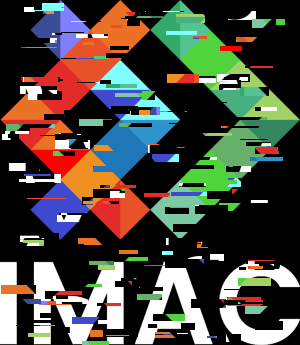
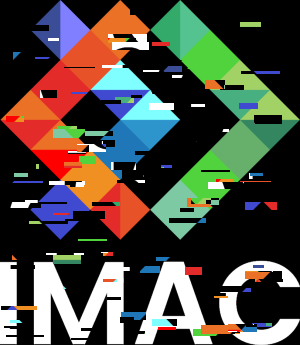
OP Rapport (fonctions Lisa) + OPTI tramage + OPTI normalisation
🐛 tramage
:zap: normalisation
📝 rapport

diff --git a/src/main.cpp b/src/main.cpp
@@ -359,7 +359,7 @@ void tramage(sil::Image image)
     {
         for (int y{0}; y < image.height(); y++)
         {
-            if (image.pixel(x, y).r + bayer_matrix_4x4[x % 4][y % 4] > 0.5f)
+            if ((image.pixel(x, y).r + image.pixel(x, y).g + image.pixel(x, y).b) / 3 + bayer_matrix_4x4[x % 4][y % 4] > 0.5f)
             {
                 image.pixel(x, y).r = 1;
                 image.pixel(x, y).g = 1;
@@ -376,9 +376,6 @@ void tramage(sil::Image image)
     
 void normalisation(sil::Image image)
 {
-    sil::Image grayscaledCopy = image;
-    blackAndWhite(grayscaledCopy);
-
     float darkestPixelValue{1.f};
     float brightestPixelValue{0.f};
     
@@ -386,14 +383,14 @@ void normalisation(sil::Image image)
     {
         for (int y{0}; y < image.height(); y++)
         {
-            if (grayscaledCopy.pixel(x, y).r < darkestPixelValue)
+            if ((image.pixel(x, y).r + image.pixel(x, y).g + image.pixel(x, y).b) / 3 < darkestPixelValue)
             {
-                darkestPixelValue = grayscaledCopy.pixel(x, y).r;
+                darkestPixelValue = (image.pixel(x, y).r + image.pixel(x, y).g + image.pixel(x, y).b) / 3;
             }
             
-            else if (grayscaledCopy.pixel(x, y).r > brightestPixelValue)
+            else if ((image.pixel(x, y).r + image.pixel(x, y).g + image.pixel(x, y).b) / 3 > brightestPixelValue)
             {
-                brightestPixelValue = grayscaledCopy.pixel(x, y).r;
+                brightestPixelValue = (image.pixel(x, y).r + image.pixel(x, y).g + image.pixel(x, y).b) / 3;
             }
         }
     }
@@ -587,9 +584,9 @@ int main()
     sil::Image photo{"images/photo.jpg"};
     sil::Image lowContrast{"images/photo_faible_contraste.jpg"};
 
-    sil::Image blackRectangle{300, 200};
-    sil::Image blackImagePhoto{500, 500};     //meme format que la photo
-    sil::Image blackImageLogo{300, 345};      //meme format que le logo
+    // sil::Image blackRectangle{300, 200};
+    // sil::Image blackImagePhoto{500, 500};     //meme format que la photo
+    // sil::Image blackImageLogo{300, 345};      //meme format que le logo
 
     // onlyGreen(logo);
     // changeRedBlue(logo);

diff --git a/README.md b/README.md
@@ -2,8 +2,8 @@
 
 ----
 
-# Rapport de la semaine Workshop de programmation et algorithmie
-semaine 20 novembre 2023
+# Rapport de la semaine - Workshop de programmation et algorithmie
+Du 20 au 24 novembre 2023
 **Par Muracciole Lisa et Ruiz Fanny**
 
 ----
@@ -106,18 +106,36 @@ La différence réside dans un "aiguillage" qui va indiquer au programme où pla
 
 ## ⭐⭐⭐ glitch
 ![image](./images/logo.png) ![image](./output/16_glitch.png)
+
+Pour ce programme, j’ai repris le principe de la fonction swap pour échanger un rectangle d’une longueur et hauteur aléatoire avec un autre rectangle de même dimensions pris aléatoirement dans l’image. 
+Je définis donc un point de départ du rectangle en x et en y, un point de départ de l'autre rectangle, puis j'échange chaque pixel en parcourant les x et y avec un *for*. 
+
+Pour que tout ce code se répète plusieurs fois, je l'inclus dans un *for* dont le compteur *repetition* s'arrête à un nombre aléatoire *glitchLvl*, de la même manière que pour *noise*.
+
 ##fractal
 ![image](./images/blackImagePhoto.png) ![image](./output/17_fractal.png)
 ##vortex
 ![image](./images/logo.png) ![image](./output/18_vortex.png)
-##tramage
+
+## ⭐⭐⭐(⭐) tramage
 ![image](./images/photo.jpg) ![image](./output/19_tramage.png)
-##normalisation
-![image](./images/photo_faible_contraste.jpg) ![image](./output/20_normalisation.png) A CHANGER
+Pour ce programme, j'ai d'abord récupéré les données de la matrice de Bayer et le `const int bayer_n = 4` selon le deuxième lien fourni. 
+Ensuite, selon le tutoriel, j'utilise des if et else pour assigner 0 ou 1 à la valeur d'un pixel, selon sa luminosité + une valeur contenue dans la matrice de bayer. Les % sont utilisés pour ne pas sortir de la matrice, cela sert à avoir un peu d'aléatoire au niveau du rendu. 
+Pour parcourir toute l'image, comme pour beaucoup de fonctions, j'inclus le if / else dans deux *for* qui incrémentent x et y jusqu'à la longueur (resp. hauteur) de l'image. 
+
+## ⭐⭐⭐(⭐) normalisation
+![image](./images/photo_faible_contraste.jpg) ![image](./output/20_normalisation.png)
+Pour normalisation, j'ai tout d'abord initialisé mon pixel le plus sombre à 1 et le plus foncé à 0. Ensuite, je parcours l'image pour trouver le pixel le plus foncé de l'image et le plus clair de l'image ( *for* de *for* en x et y, jusque là rien de nouveau).  J'initialise ma valeur *deltaValue*, puis, parcours à nouveau l'image pour appliquer une formule à chaque pixel afin de recalibrer chacune des composantes.
+
 ##convolutions
 ![image](./images/logo.png) ![image](./output/21_convolutions.png)
 ###algoGeneriqueDeConvolutions
 ##filtresSeparables
 ![image](./images/logo.png) ![image](./output/23_filtresSeparables.png)
+
 ##differenceDeGaussienne
 ![image](./images/photo.jpg) ![image](./output/24_differenceDeGaussienne.png)
+
+## ⭐⭐⭐⭐ Tri de pixels
+![image](./images/photo.jpg) ![image](./output/25_pixelSorting)
+Pour ce tri de pixels, j'ai tout d'abord initialisé une longueur de ligne de pixels que je voulais trier, puis l'écart entre ces lignes, aléatoirement. Puis, je parcourt toute mon image en me décalant à chaque fois d'une longueur de ligne + l'écart. Si je ne risque pas de sortir de l'image, le programme trie la rangée, puis assigne une nouvelle valeur aléatoire à l'écart et la longueur de ligne, pour rendre le résultat encore plus aléatoire !
